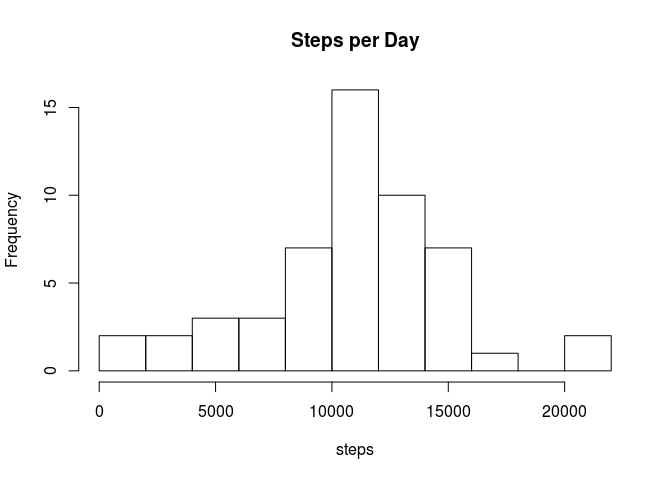
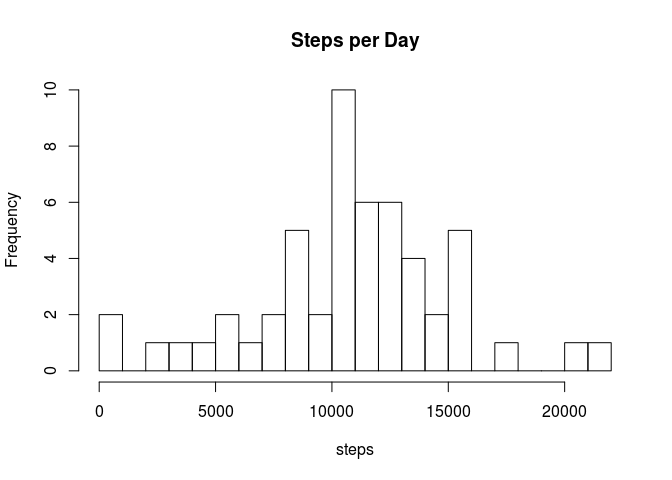
ggplot2

diff --git a/PA1_template.html b/PA1_template.html
@@ -73,17 +73,19 @@ activityData &lt;- read.csv(unz(&quot;activity.zip&quot;, &quot;activity.csv&quo
 <pre class="r"><code># the interval seems to be in 24 hour time 00:00 -&gt; 23:55
 # Add and extra column &quot;time&quot; that will convert date and interval into a
 # POXIXct object for later data calulations
-activityData$time &lt;- strptime(sprintf(&quot;%s %04d&quot;, 
+activityData$date &lt;- as.Date(strptime(sprintf(&quot;%s %04d&quot;, 
                                       activityData$date, 
                                       activityData$interval), 
                               format = &quot;%F %H%M&quot;, 
-                              tz = &quot;GMT&quot;)</code></pre>
+                              tz = &quot;GMT&quot;)) </code></pre>
 </div>
 <div id="what-is-mean-total-number-of-steps-taken-per-day" class="section level2">
 <h2>What is mean total number of steps taken per day?</h2>
 <pre class="r"><code>stepsPerDay&lt;-tapply(activityData$steps,activityData$date,FUN=sum)
-hist(stepsPerDay,breaks=10, main=&quot;Steps per Day&quot;,xlab=&quot;steps&quot;)</code></pre>
[1 lines of base64/hex data omitted]
+hist(stepsPerDay,breaks=20, main=&quot;Steps per Day&quot;,xlab=&quot;steps&quot;)</code></pre>
[1 lines of base64/hex data omitted]
+<pre class="r"><code>#require(ggplot2)
+#qplot (data=stepsPerDay,geom=&quot;histogram&quot;)</code></pre>
 <pre class="r"><code># Remove the NAs while calculating the mean and median
 stepsMM &lt;- c(mean(stepsPerDay,na.rm=TRUE),median(stepsPerDay,na.rm=TRUE))
 stepsMM &lt;- setNames (stepsMM,c(&quot;Mean&quot;,&quot;Median&quot;))
@@ -132,8 +134,10 @@ newActivityData[is.na(newActivityData$steps),]$steps &lt;-
 <pre class="r"><code># sum up the total steps per day based on the the new data.frame 
 # with the imputed steps per interval calaulated in the previous step
 newStepsPerDay&lt;-tapply(newActivityData$steps,newActivityData$date,FUN=sum)
-hist(newStepsPerDay,breaks=10, main=&quot;Steps per Day&quot;,xlab=&quot;steps&quot;)</code></pre>
[1 lines of base64/hex data omitted]
+hist(newStepsPerDay,breaks=20, main=&quot;Steps per Day&quot;,xlab=&quot;steps&quot;)</code></pre>
[1 lines of base64/hex data omitted]
+<pre class="r"><code>#require (ggplot2)
+#ggplot(newStepsPerDay)</code></pre>
 <pre class="r"><code># Calculate the mean and median (all NAs have been imputed)
 newStepsMM &lt;- c(mean(newStepsPerDay),median(newStepsPerDay))
 newStepsMM &lt;- setNames (newStepsMM,c(&quot;Mean&quot;,&quot;Median&quot;))
@@ -143,7 +147,17 @@ newStepsMM</code></pre>
 </div>
 <div id="are-there-differences-in-activity-patterns-between-weekdays-and-weekends" class="section level2">
 <h2>Are there differences in activity patterns between weekdays and weekends?</h2>
-<p>Create a weekday/weekend factor Average number of steps taken, averaged across all weekday days or weekend days</p>
+<p>Create a weekday/weekend factor</p>
+<pre class="r"><code>dow &lt;- function (x) { 
+  day&lt;-weekdays(x)
+  if (day==&quot;Saturday&quot;|| day==&quot;Sunday&quot;) {
+    return(&quot;weekend&quot;) 
+  } else {
+      return(&quot;weekday&quot;)
+  }
+}
+activityData$daytype &lt;- sapply(activityData$date,FUN=dow)</code></pre>
+<p>Average number of steps taken, averaged across all weekday days or weekend days</p>
 </div>
 
 

diff --git a/PA1_template.md b/PA1_template.md
@@ -16,21 +16,26 @@ Clean up and extend our data
 # the interval seems to be in 24 hour time 00:00 -> 23:55
 # Add and extra column "time" that will convert date and interval into a
 # POXIXct object for later data calulations
-activityData$time <- strptime(sprintf("%s %04d", 
+activityData$date <- as.Date(strptime(sprintf("%s %04d", 
                                       activityData$date, 
                                       activityData$interval), 
                               format = "%F %H%M", 
-                              tz = "GMT")
+                              tz = "GMT")) 
 ```
 
 ## What is mean total number of steps taken per day?
 
 ```r
 stepsPerDay<-tapply(activityData$steps,activityData$date,FUN=sum)
-hist(stepsPerDay,breaks=10, main="Steps per Day",xlab="steps")
+hist(stepsPerDay,breaks=20, main="Steps per Day",xlab="steps")
 ```
 
 ![](PA1_template_files/figure-html/stepshistogram-1.png) 
+
+```r
+#require(ggplot2)
+#qplot (data=stepsPerDay,geom="histogram")
+```
 
 
 ```r
@@ -111,10 +116,15 @@ Create a histogram of the the new data calculate the mean and median
 # sum up the total steps per day based on the the new data.frame 
 # with the imputed steps per interval calaulated in the previous step
 newStepsPerDay<-tapply(newActivityData$steps,newActivityData$date,FUN=sum)
-hist(newStepsPerDay,breaks=10, main="Steps per Day",xlab="steps")
+hist(newStepsPerDay,breaks=20, main="Steps per Day",xlab="steps")
 ```
 
 ![](PA1_template_files/figure-html/newstepshistogram-1.png) 
+
+```r
+#require (ggplot2)
+#ggplot(newStepsPerDay)
+```
 
 
 ```r
@@ -131,4 +141,17 @@ newStepsMM
 ## Are there differences in activity patterns between weekdays and weekends?
 
 Create a weekday/weekend factor
+
+```r
+dow <- function (x) { 
+  day<-weekdays(x)
+  if (day=="Saturday"|| day=="Sunday") {
+    return("weekend") 
+  } else {
+      return("weekday")
+  }
+}
+activityData$daytype <- sapply(activityData$date,FUN=dow)
+```
+
 Average number of steps taken, averaged across all weekday days or weekend days
